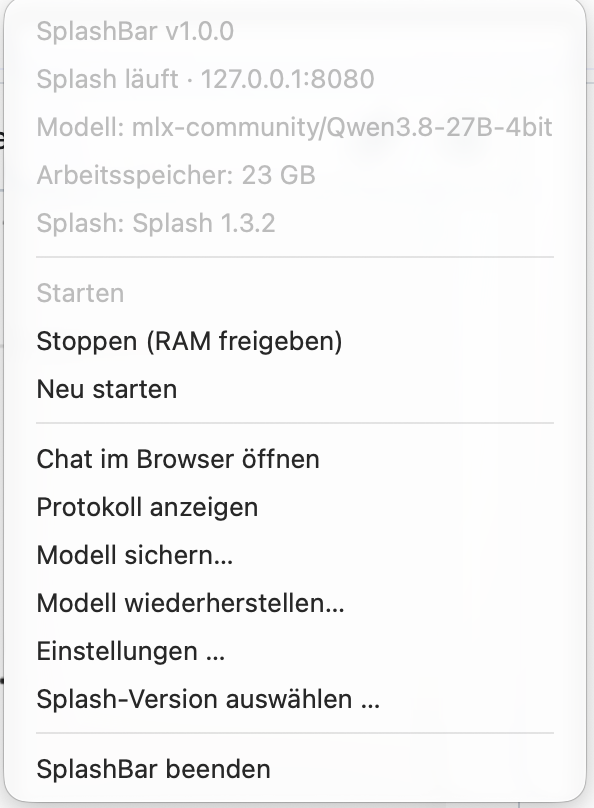
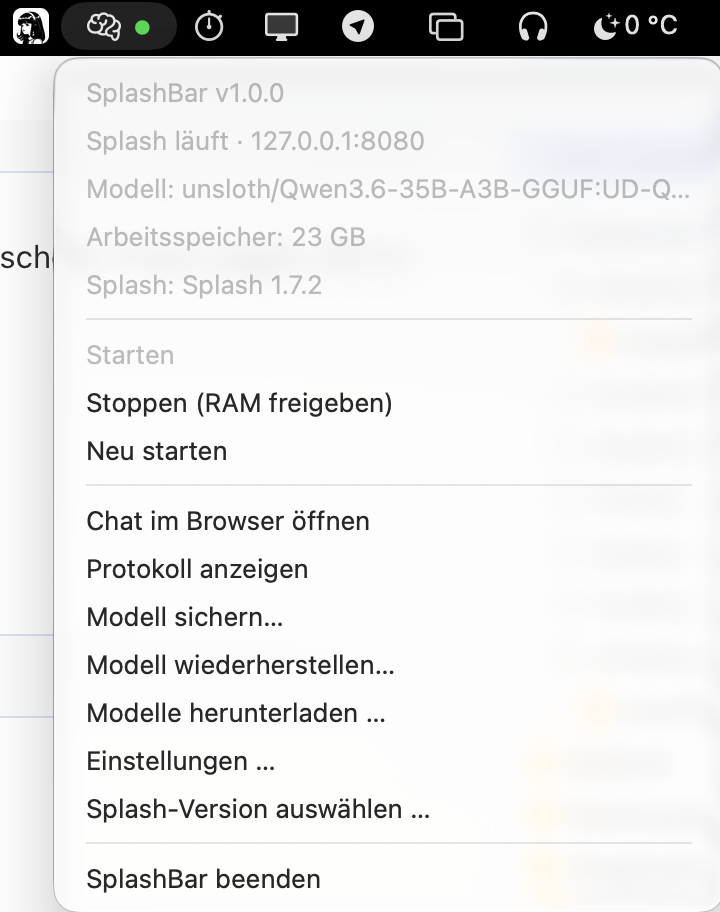
docs: new menu screenshot, document in-app model downloads
- docs/menu.png: current menu (server state, model, memory, version and
  the full item list incl. downloads)
- README.md / README.de.md: feature bullet for the download pipeline
  (live progress, SHA-256, resume, complete package into the Hub cache)

diff --git a/README.de.md b/README.de.md
@@ -32,6 +32,10 @@ Systemsprache und sind in sieben Sprachen lokalisiert (de, en, fr, es, ja, zh, r
   GPU/phys_footprint, nicht in der RSS
 - Starten / Stoppen (freit RAM + VRAM) / Neu starten, ohne das Terminal zu öffnen
 - Öffnet die Chat-Oberfläche unter `http://127.0.0.1:8080` sowie das Server-Protokoll
+- Lädt Modelle aus Hugging Face mit Live-Fortschritt, SHA-256-Prüfung und
+  Wiederaufnahme nach Neustarts — jeder Download holt das komplette Paket
+  (das GGUF, seinen Vision-Projector und den DFlash2-Draft der Familie) und
+  legt es im Standard-Hub-Cache ab, wo Splash es auch offline findet
 - Wählt die Modell-ID für `splash serve --model`
 - Wählt die Kontextgröße für `splash serve --max-context` (Auto = das native Fenster des Modells)
 - Übergibt optional API-Schlüssel und erlaubten Host an den Server

diff --git a/README.md b/README.md
@@ -30,6 +30,10 @@ seven languages (de, en, fr, es, ja, zh, ru).
   GPU/phys_footprint, not in RSS
 - Start / Stop (frees RAM + VRAM) / Restart without opening Terminal
 - Opens the chat UI at `http://127.0.0.1:8080` and the server log
+- Downloads models from Hugging Face with live progress, SHA-256 verification
+  and resume across restarts — each download fetches the complete package
+  (the GGUF, its vision projector and the family's DFlash2 draft) and places
+  it in the standard Hub cache, where Splash finds it even offline
 - Selects the model ID passed to `splash serve --model`
 - Chooses the context size passed to `splash serve --max-context` (auto = the model's native window)
 - Optionally passes an API key and an allowed host to the server
